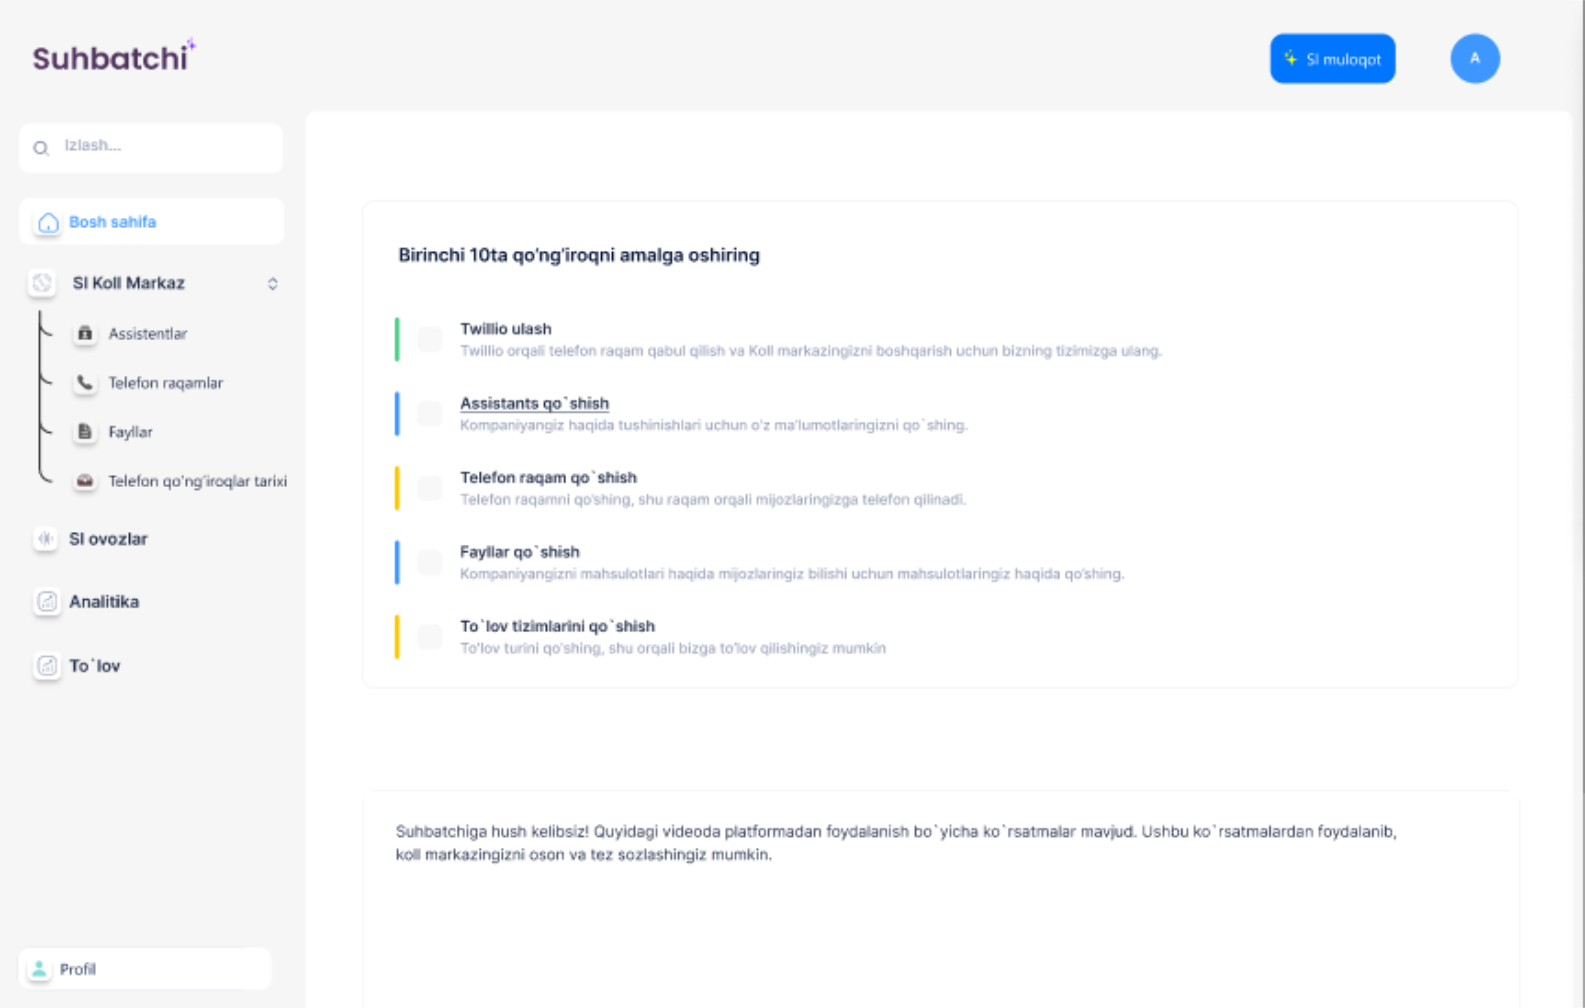
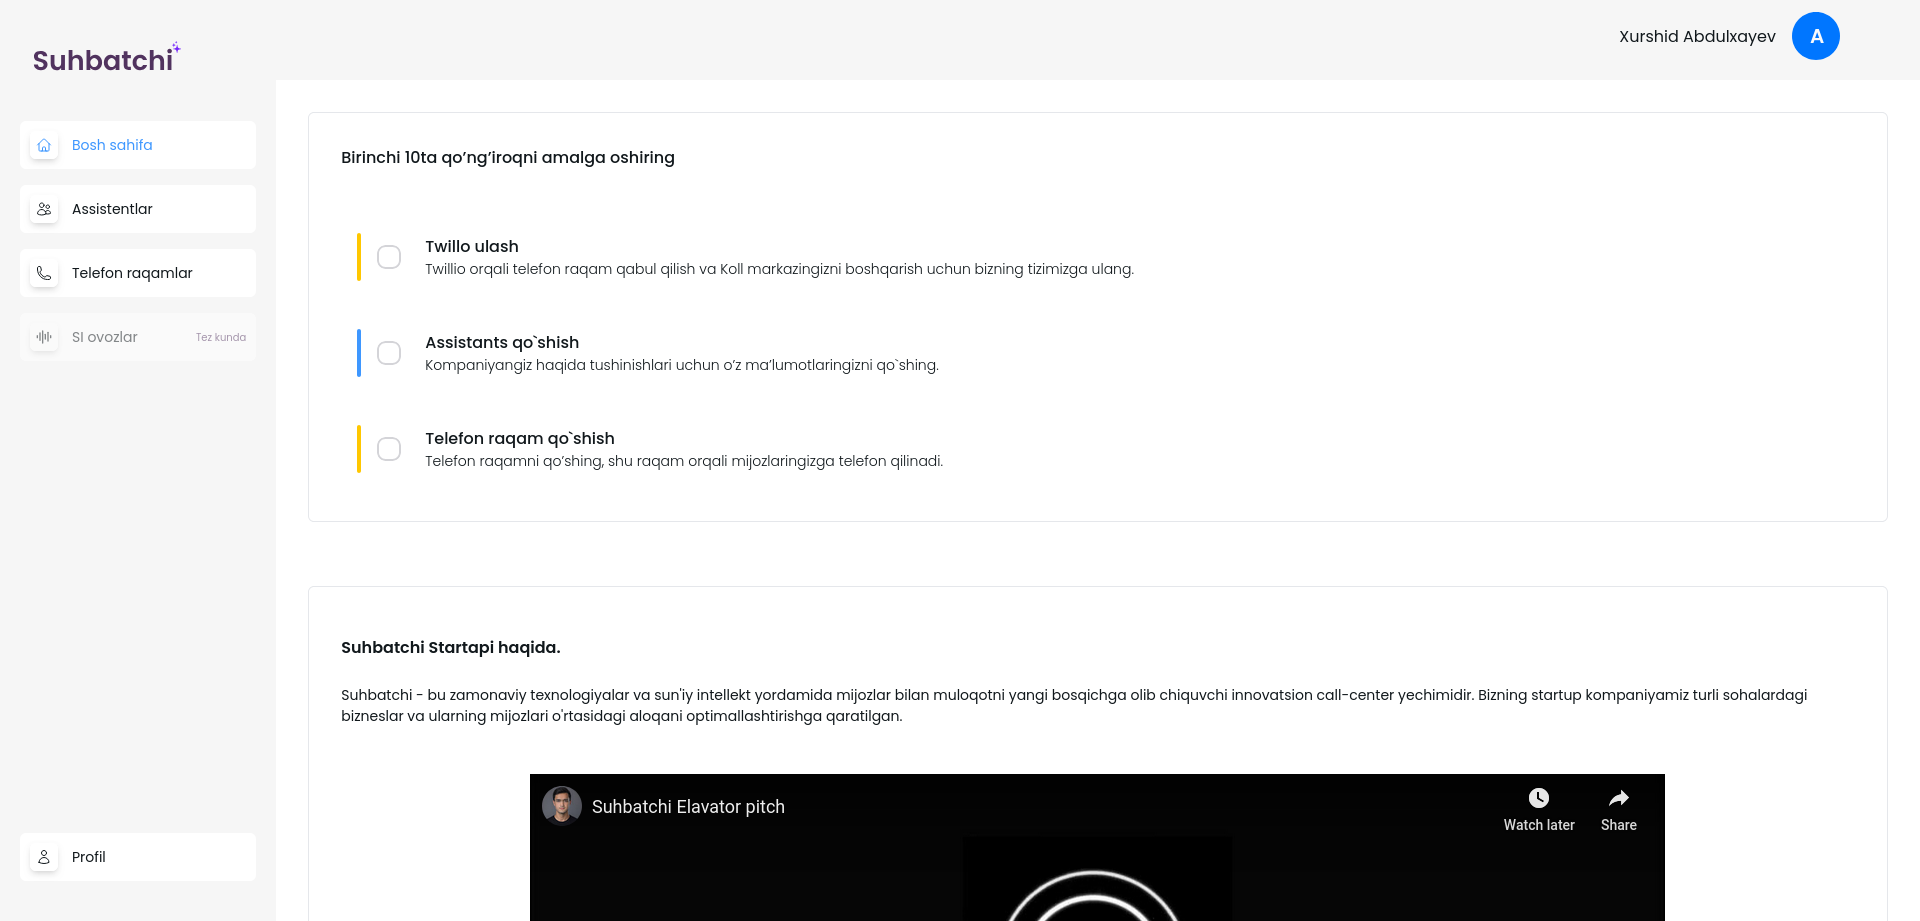
change intro video

diff --git a/src/sections/Descriptions.tsx b/src/sections/Descriptions.tsx
@@ -18,7 +18,7 @@ const Descriptions = () => {
         <Image
           src={`/images/Desc1.png`}
           alt="Descriptions 1"
-          className="2xl:w-auto sm:w-[500px] max-sm:w-full"
+          className="2xl:w-auto sm:w-[500px] max-sm:w-full rounded-2xl"
           width={762}
           height={505}
         />
@@ -27,7 +27,7 @@ const Descriptions = () => {
         <Image
           src={`/images/Desc1.png`}
           alt="Descriptions 2"
-          className="2xl:w-auto sm:w-[500px] max-sm:w-full"
+          className="2xl:w-auto sm:w-[500px] max-sm:w-full rounded-2xl"
           width={762}
           height={505}
         />

diff --git a/src/sections/IntroVideo.tsx b/src/sections/IntroVideo.tsx
@@ -44,7 +44,7 @@ const IntroVideo = () => {
         <div className="IntroVideo mt-10">
           <iframe
             className="lg:w-[828px] lg:h-[465px] sm:w-[600px] sm:h-[350px] w-[420px] h-[225px] max-sm:w-[320px] max-sm:h-[220px] mb-10"
-            src="https://www.youtube.com/embed/fjHtjT7GO1c?si=bSfCVLvajivpg-FM"
+            src="https://www.youtube.com/embed/OIjKOL6M6IQ?si=y2JXAyOA3fBsLX7T"
             title="YouTube video player"
             allow="accelerometer; autoplay; clipboard-write; encrypted-media; gyroscope; picture-in-picture; web-share"
             referrerPolicy="strict-origin-when-cross-origin"

diff --git a/src/components/custom/Footer.tsx b/src/components/custom/Footer.tsx
@@ -61,9 +61,10 @@ const Footer = () => {
                 <CardDescription>@suhbatchi</CardDescription>
               </div>
             </CardHeader>
-            <CardContent className={cn(`text-lg`)}>
-              Mijozlar bilan muloqotning yangi avlodi - <br /> Suhbatchi orqali
-            </CardContent>
+            <CardContent
+              className={cn(`text-lg`)}
+              dangerouslySetInnerHTML={{ __html: t.raw("xPost") }}
+            />
           </Card>
         </Link>
       </div>

diff --git a/src/components/custom/Header.tsx b/src/components/custom/Header.tsx
@@ -62,7 +62,7 @@ const Header = () => {
       </NavigationMenu>
       <div className="login flex items-center gap-3">
         <Button className={cn(`max-sm:hidden`)}>
-          <Link href={""}>{t("Header.login")}</Link>
+          <Link href={"https://app.suhbatchi.uz"} target="_blank">{t("Header.login")}</Link>
         </Button>
         <ModeToggle className="max-md:hidden" />
         <Sheet>
